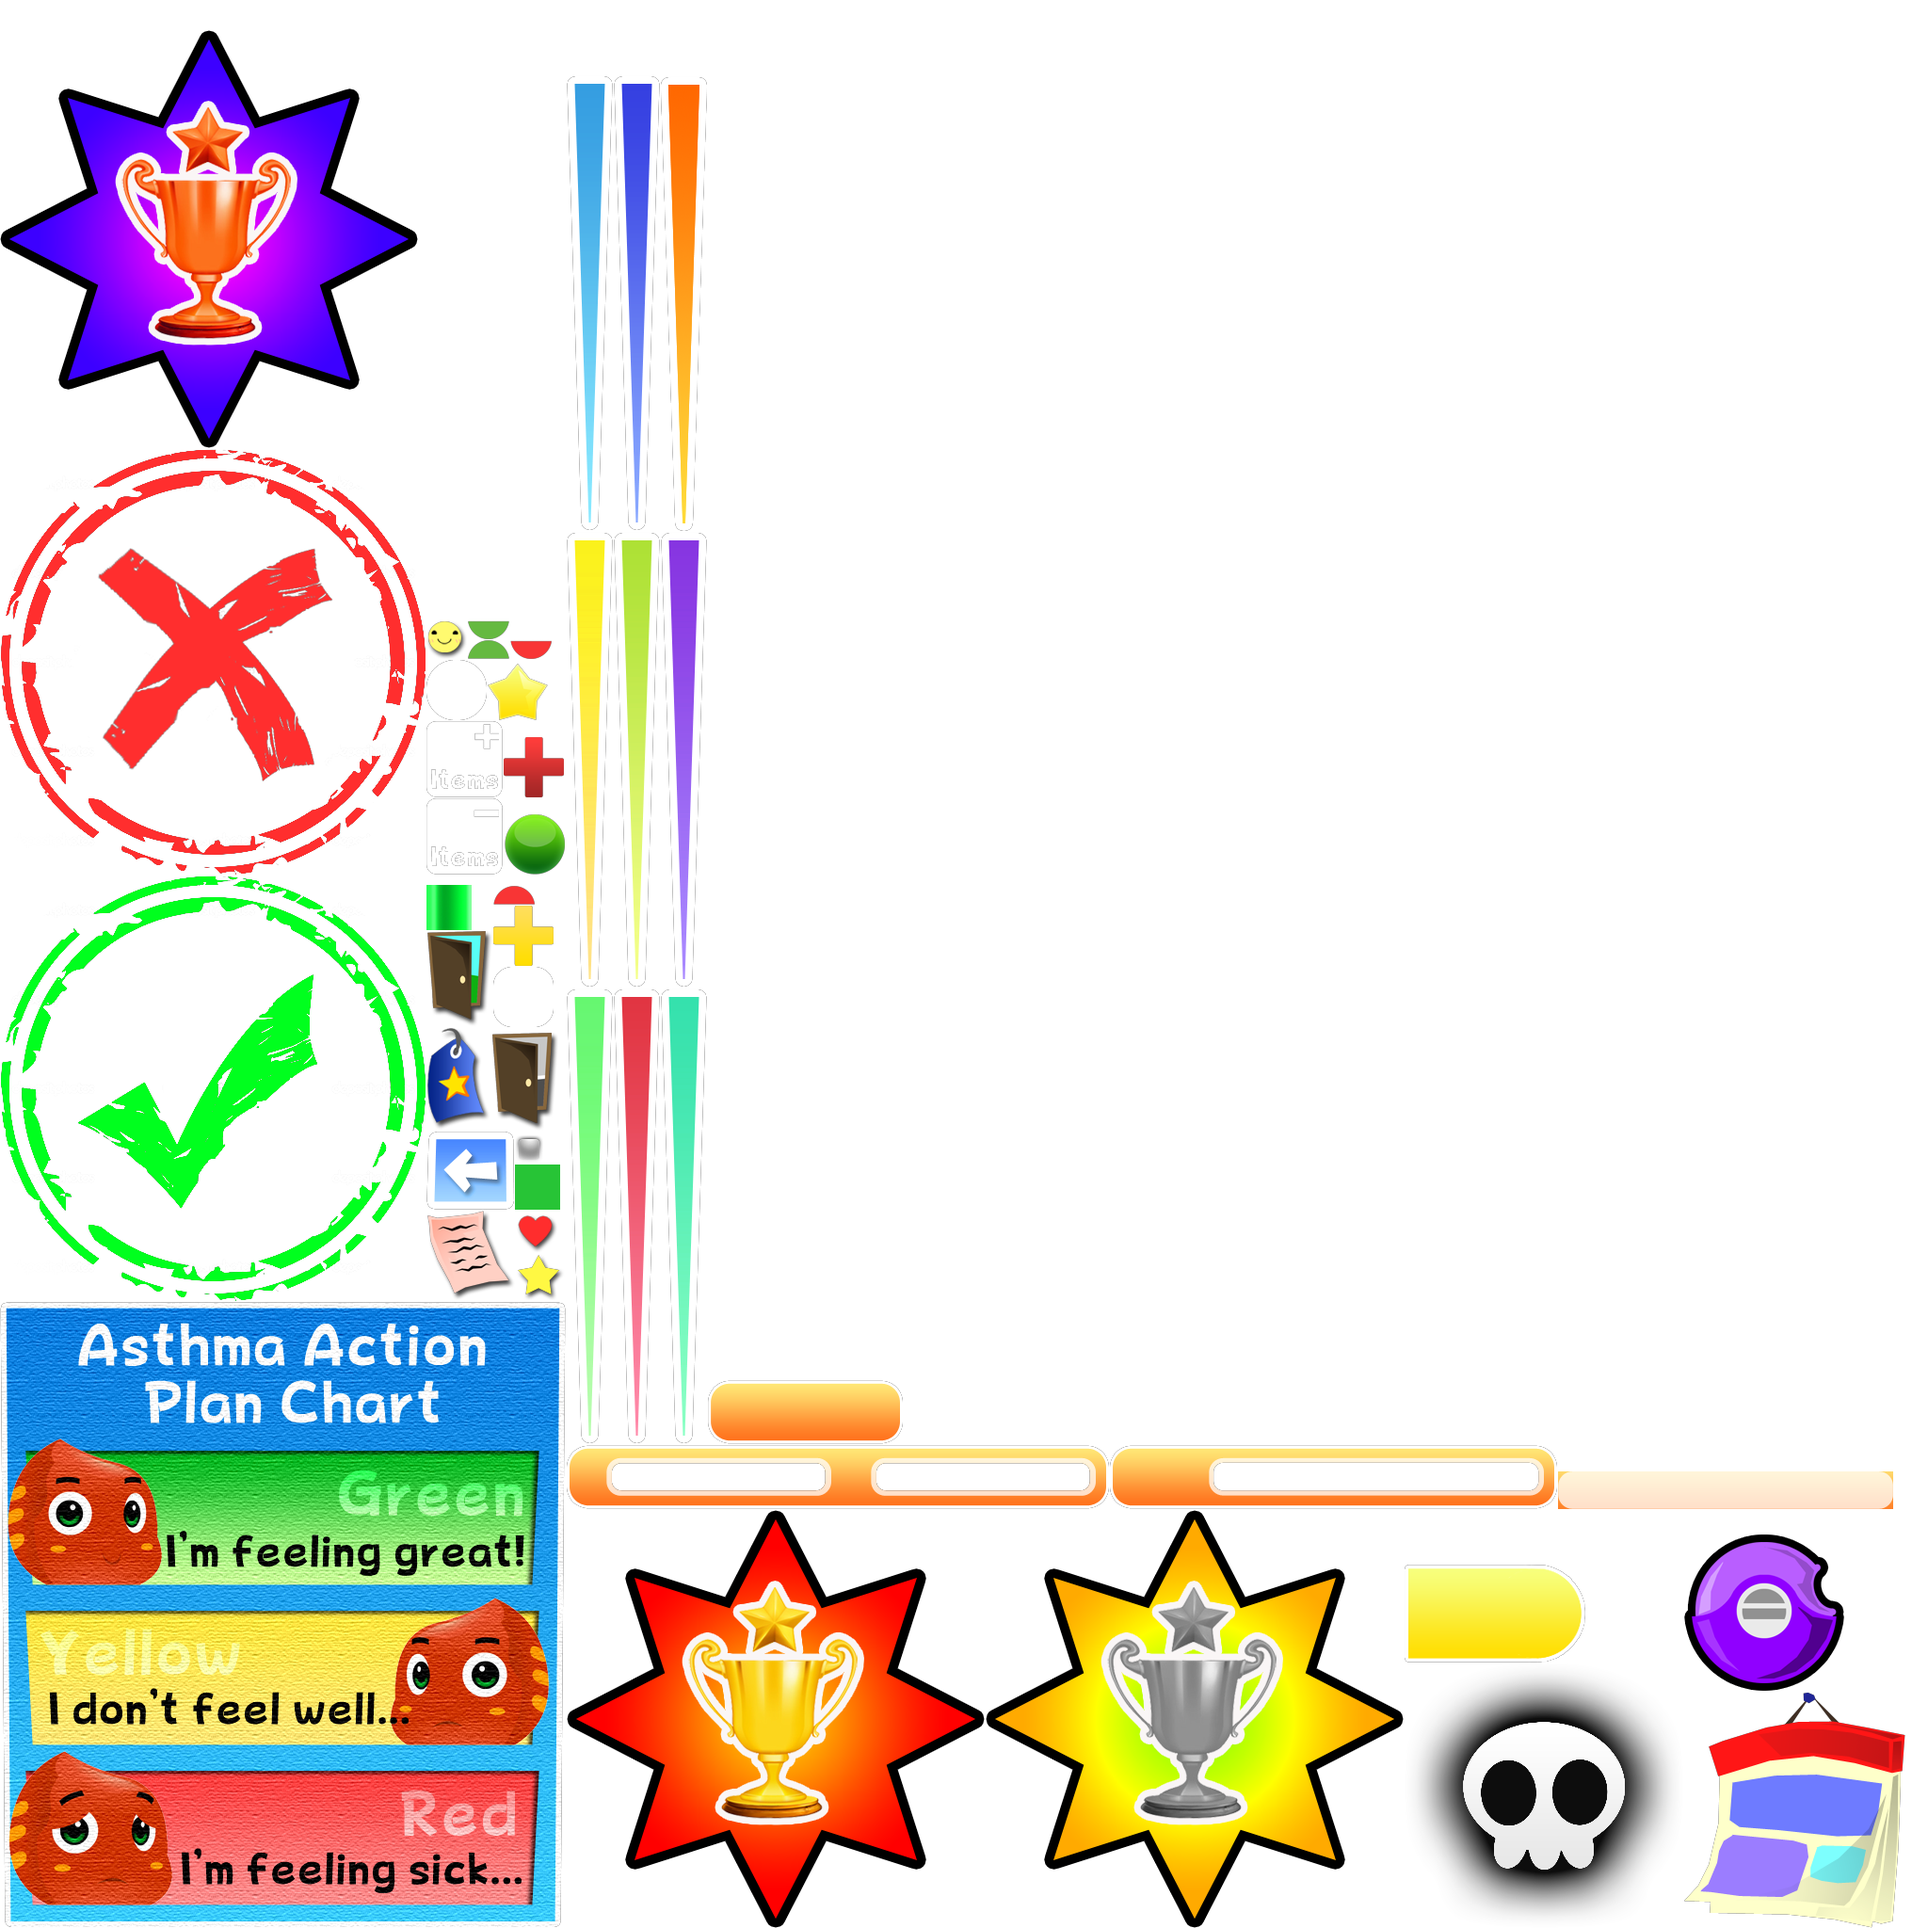
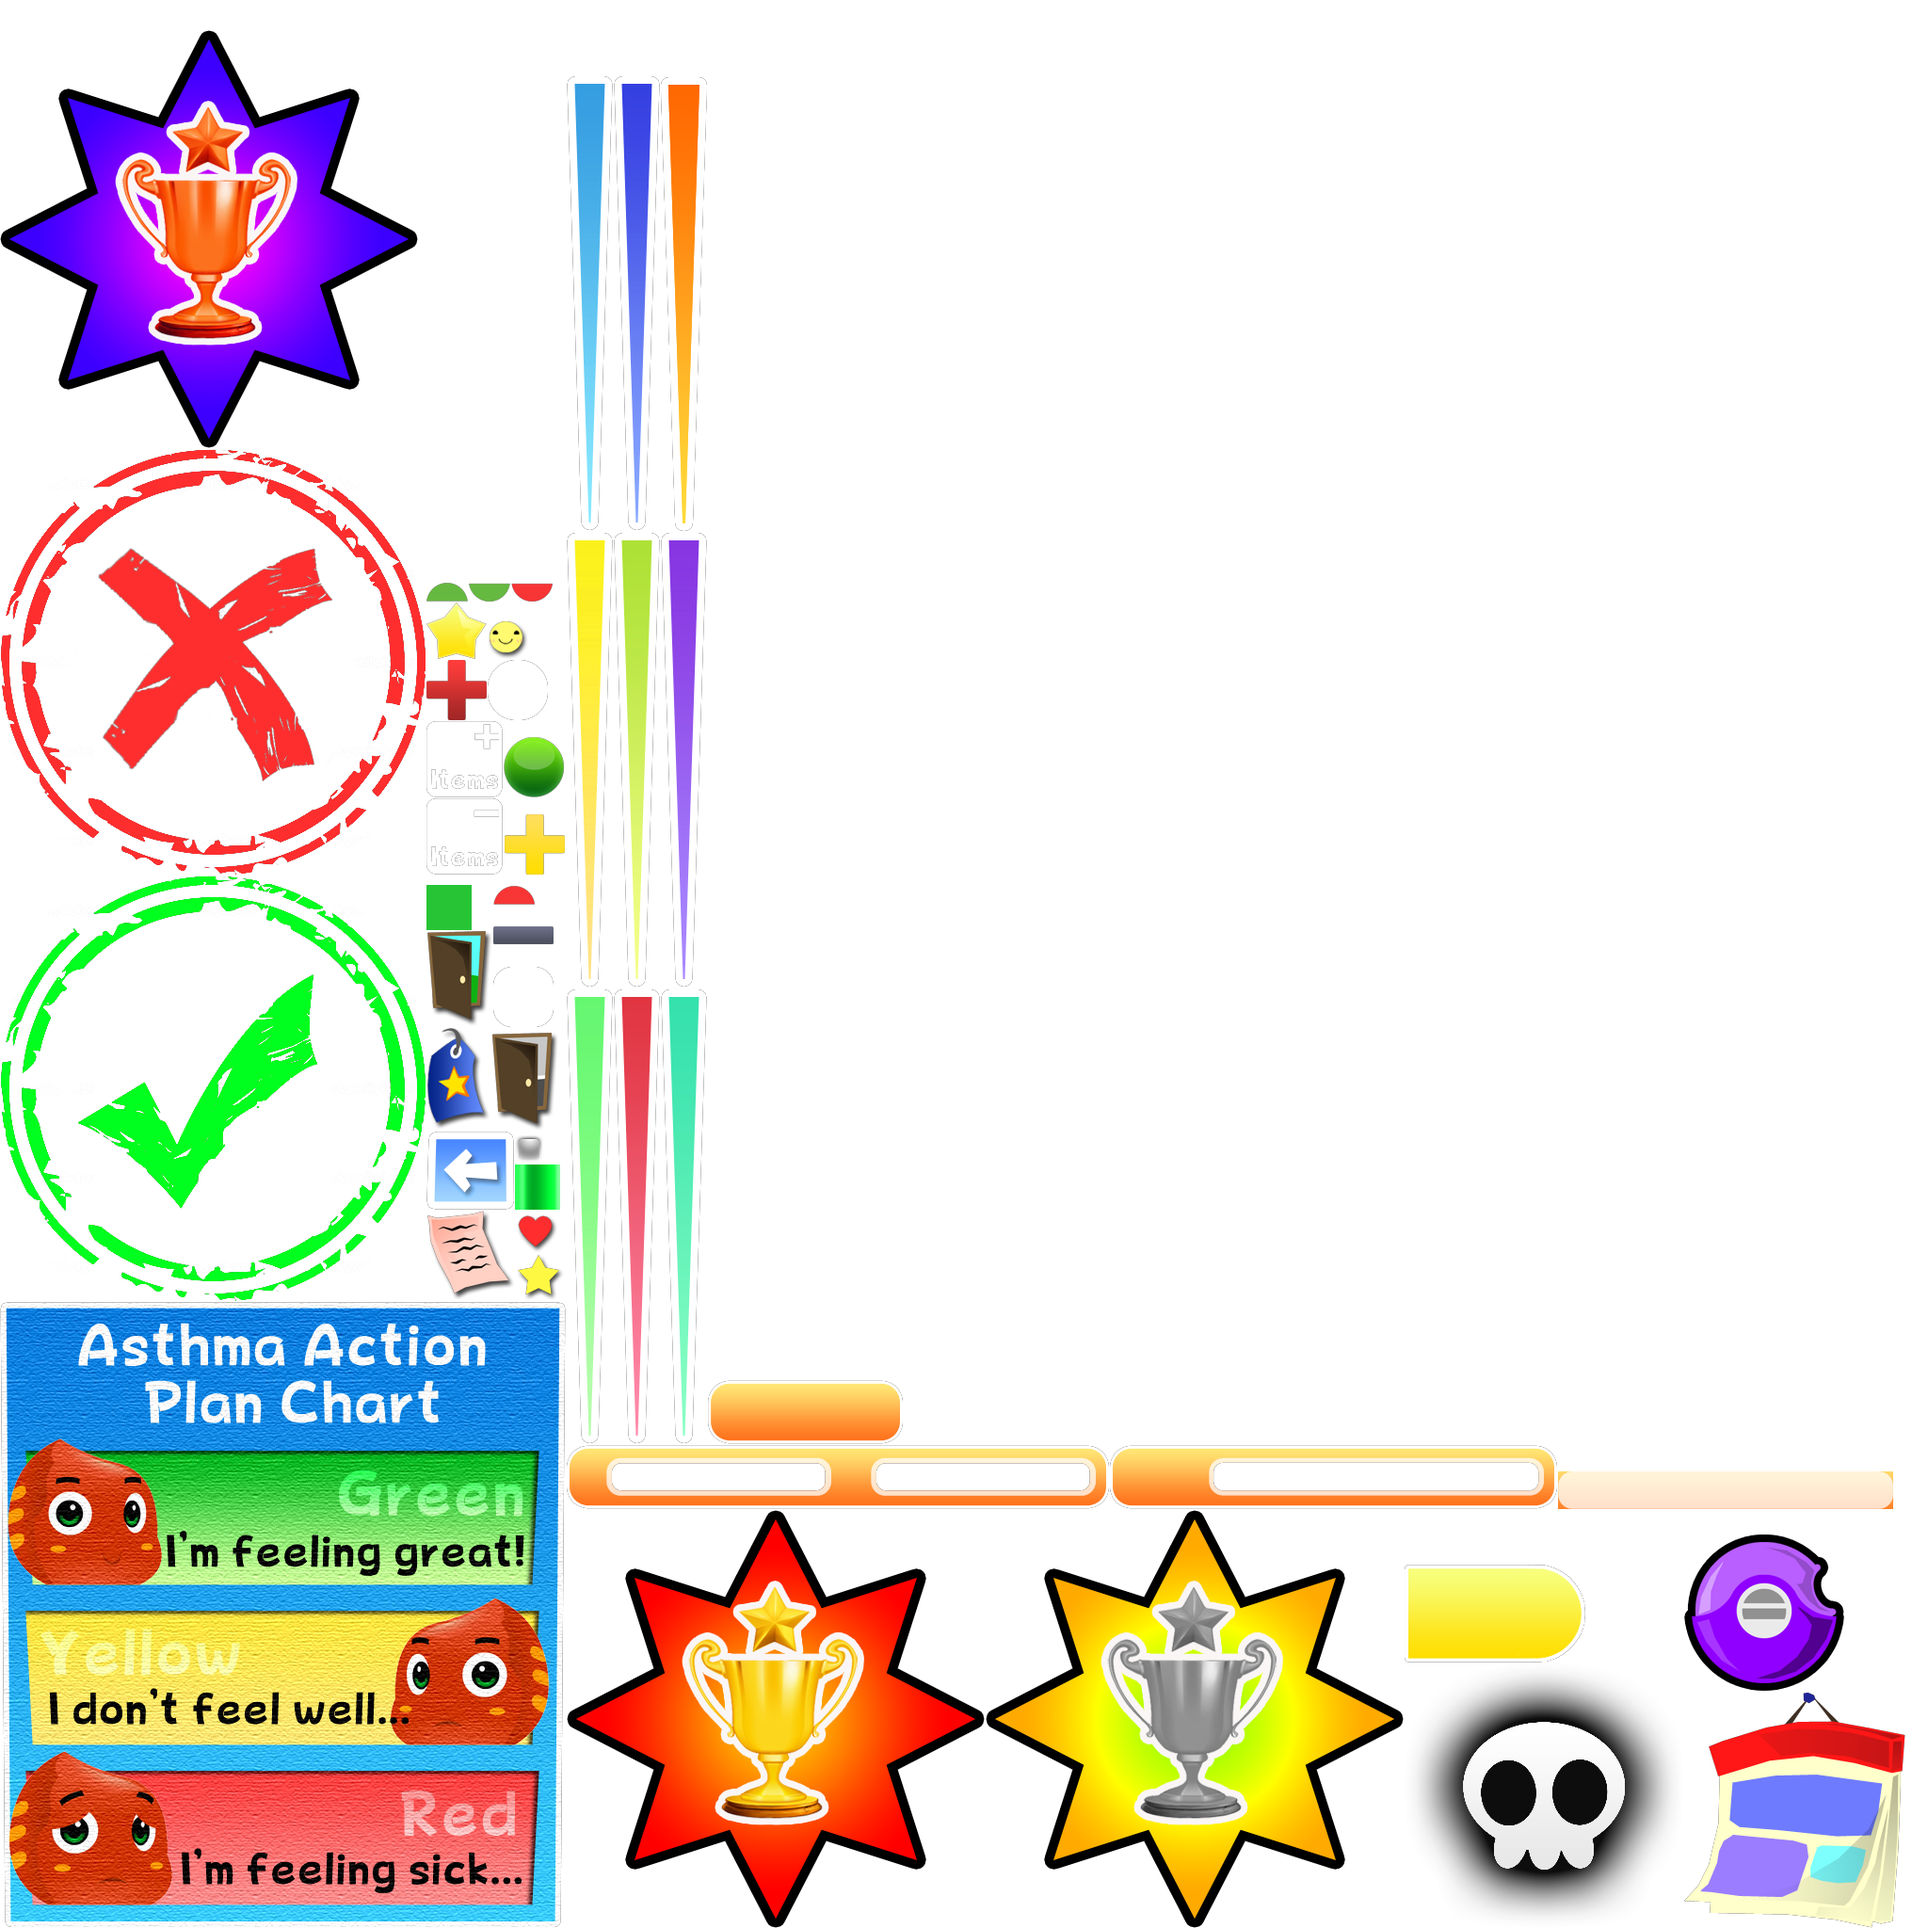
Default HUD animations, Minus animations done

Changed region(s): [[0.2188, 0.2812, 0.3125, 0.5], [0.25, 0.5938, 0.3125, 0.625]]

diff --git a/MyZooPets/Assets/Scripts/View/HUDAnimator.cs b/MyZooPets/Assets/Scripts/View/HUDAnimator.cs
@@ -261,13 +261,13 @@ public class HUDAnimator : MonoBehaviour {
 				StatsController.Instance.ChangeStats(0, Vector3.zero, 0, Vector3.zero, 0, Vector3.zero, 85, new Vector3(0, 0, 0));
 			}
 			if(GUI.Button(new Rect(100, 500, 100, 50), "KABOOYA")){
-				DataManager.SubtractMood(100);
-				dataMood = 0;
-				displayMood = 0;
-				DataManager.SubtractHealth(100);
-				dataHealth = 0;
-				displayHealth = 0;
-				StatsController.Instance.ChangeStats(200, Vector3.zero, 100, Vector3.zero, 73, Vector3.zero, 85, new Vector3(0, 0, 0));
+//				DataManager.SubtractMood(100);
+//				dataMood = 0;
+//				displayMood = 0;
+//				DataManager.SubtractHealth(100);
+//				dataHealth = 0;
+//				displayHealth = 0;
+				StatsController.Instance.ChangeStats(-100, Vector3.zero, -100, Vector3.zero, -20, Vector3.zero, -50, new Vector3(0, 0, 0));
 			}
 		}
 	}
@@ -327,40 +327,79 @@ public class HUDAnimator : MonoBehaviour {
 		String imageName = null;
 		Vector3 endPosition = Vector3.zero;
 		float modifier = 3f;	// How many to spawn for each change
+		bool isScaleUpDown = false;	// Used for adding animation
+		bool isFade = false;	// Used for subtracting animation
 
 		//Testing
 		duration = .7f;
 
 		switch(type){
-			case(HUDElementType.points):
-				imageName = "tweenPoints";
-				modifier = Math.Abs(1.3f / 200f * amount);
-				endPosition = new Vector3(130f, -25f, 0); //Points
-				break;
-			case(HUDElementType.stars):
-				imageName = "tweenStars";
-				modifier = Math.Abs(4f / 200f * amount);
-				endPosition = new Vector3(514f, -25f, 0);	//Stars
-				break;
-			case(HUDElementType.health):
+		case(HUDElementType.points):
+			modifier = Math.Abs(1.3f / 200f * amount);
+			imageName = "tweenPoints";
+			if(amount > 0){
+				endPosition = new Vector3(130f, -25f, 0);
+				isScaleUpDown = true;
+			}
+			else{
+				originPoint = new Vector3(130f, -25f, 0);
+				endPosition = new Vector3(130f, -100f, 0);
+				isFade = true;
+			}
+			break;
+
+		case(HUDElementType.stars):
+			modifier = Math.Abs(4f / 200f * amount);
+			imageName = "tweenStars";
+			if(amount > 0){
+				endPosition = new Vector3(514f, -25f, 0);
+				isScaleUpDown = true;
+			}
+			else{
+				originPoint = new Vector3(514f, -25f, 0);
+				endPosition = new Vector3(514f, -100f, 0);
+				isFade = true;
+			}
+			break;
+
+		case(HUDElementType.health):
+			modifier = Math.Abs(1.6f / 80f * amount);
+			if(amount > 0){
 				imageName = "tweenHealthUp";
-				modifier = Math.Abs(1.6f / 80f * amount);
-				endPosition = new Vector3(730f, -23f, 0);	//Health
-				break;
-			case(HUDElementType.mood):
+				endPosition = new Vector3(730f, -25f, 0);
+				isScaleUpDown = true;
+			}
+			else{
+				imageName = "tweenMinus";
+				originPoint = new Vector3(730f, -25f, 0);
+				endPosition = new Vector3(730f, -100f, 0);
+				isFade = true;
+			}
+			break;
+
+		case(HUDElementType.mood):
+			modifier = Math.Abs(1.6f / 80f * amount);
+			if(amount > 0){
 				imageName = "tweenMoodUp";
-				modifier = Math.Abs(1.6f / 80f * amount);
-				endPosition = new Vector3(1010f, -23f, 0); //Mood
-				break;
+				endPosition = new Vector3(1010f, -25f, 0);
+				isScaleUpDown = true;
+			}
+			else{
+				imageName = "tweenMinus";
+				originPoint = new Vector3(1010f, -25f, 0);
+				endPosition = new Vector3(1010f, -100f, 0);
+				isFade = true;
+			}
+			break;
 		}
 
 		for(float i = 0f; i < modifier; i += 0.1f){
 			// On its own thread, asynchronous
-			StartCoroutine(SpawnOneSprite(i, type, imageName, originPoint, endPosition, duration));
+			StartCoroutine(SpawnOneSprite(i, type, imageName, originPoint, endPosition, duration, isScaleUpDown, isFade));
 		}
 	}
 
-	IEnumerator SpawnOneSprite(float waitTime, HUDElementType type, string imageName, Vector3 fromPos, Vector3 toPos, float duration){
+	IEnumerator SpawnOneSprite(float waitTime, HUDElementType type, string imageName, Vector3 fromPos, Vector3 toPos, float duration, bool isScaleUpDown, bool isFade){
 		yield return new WaitForSeconds(waitTime);
 
 		// Create the tween image
@@ -370,10 +409,17 @@ public class HUDAnimator : MonoBehaviour {
 		go.transform.localPosition = fromPos;
 		go.transform.localScale = new Vector3(33f, 33f, 1f);
 		go.AddComponent<DestroyOnCall>();
-		ScaleTweenUpDown scaleScript = go.AddComponent<ScaleTweenUpDown>();
-		scaleScript.scaleDelta = new Vector3(4f, 4f, 1f);
-		scaleScript.duration = .7f;
-
+		if(isScaleUpDown){
+			ScaleTweenUpDown scaleScript = go.AddComponent<ScaleTweenUpDown>();
+			scaleScript.scaleDelta = new Vector3(4f, 4f, 1f);
+			scaleScript.duration = 0.7f;
+		}
+		if(isFade){
+			NGUIAlphaTween alphaScript = go.AddComponent<NGUIAlphaTween>();
+			alphaScript.startAlpha = 1f;
+			alphaScript.endAlpha = 0f;
+			alphaScript.duration = 0.7f;
+		}
 		Hashtable optional = new Hashtable();
 		optional.Add("ease", LeanTweenType.easeInOutQuad);
 		optional.Add("onCompleteTarget", go);

diff --git a/MyZooPets/Assets/Scripts/View/GuiHelpers/NGUIAlphaTween.cs b/MyZooPets/Assets/Scripts/View/GuiHelpers/NGUIAlphaTween.cs
@@ -1,0 +1,51 @@
+using UnityEngine;
+using System.Collections;
+
+public class NGUIAlphaTween : MonoBehaviour {
+
+	private float currentAlpha;
+	public float startAlpha = 1.0f;	// range [0-1]
+	public float endAlpha = 0.0f;
+	public float delay = 0;
+	public float duration = 2f;
+
+	private UIWidget widget;
+
+	// Use this for initialization
+	void Start () {
+		widget = gameObject.GetComponent<UISprite>();
+
+		if(startAlpha > 1f){
+			startAlpha = 1f;
+		}
+		else if(startAlpha < 0){
+			startAlpha = 0f;
+		}
+		widget.alpha = startAlpha;
+
+		if(endAlpha > 1f){
+			endAlpha = 1f;
+		}
+		else if(endAlpha < 0){
+			endAlpha = 0f;
+		}
+
+		currentAlpha = startAlpha;
+
+		StartAlphaTween();
+	}
+
+	void FixedUpdate(){
+		widget.alpha = currentAlpha;
+	}
+
+	// LeanTween to update its own value
+	public void StartAlphaTween(){
+		Hashtable optional = new Hashtable();
+		LeanTween.value(gameObject, "UpdateFloat", startAlpha, endAlpha, duration, optional);
+	}
+
+	public void UpdateFloat(float val){
+		currentAlpha = val;
+	}
+}

diff --git a/MyZooPets/Assets/Scripts/Controller/DegradationLogic.cs b/MyZooPets/Assets/Scripts/Controller/DegradationLogic.cs
@@ -101,7 +101,7 @@ public class DegradationLogic : MonoBehaviour {
         }else{
             Debug.LogError("Trigger Destroyed listener is null");
         }
-		StatsController.Instance.ChangeStats(250, UIUtility.Instance.mCameraWorld2Screen(triggerPos), 50, UIUtility.Instance.mCameraWorld2Screen(triggerPos), 0, Vector3.zero, 0, Vector3.zero);
+		StatsController.Instance.ChangeStats(250, UIUtility.Instance.mainCameraWorld2Screen(triggerPos), 50, UIUtility.Instance.mainCameraWorld2Screen(triggerPos), 0, Vector3.zero, 0, Vector3.zero);
         DataManager.DegradationTriggers.Remove(degradData);
     }
 

diff --git a/MyZooPets/Assets/Scripts/View/GuiHelpers/UIUtility.cs b/MyZooPets/Assets/Scripts/View/GuiHelpers/UIUtility.cs
@@ -13,8 +13,11 @@ public class UIUtility : Singleton<UIUtility> {
 		nguiCamera = nguiCameraObject.GetComponent<Camera>();
 	}
 
-	public Vector3 mCameraWorld2Screen(Vector3 worldPos){
-		Debug.Log("Logging! ---- " + worldPos + " ---> " + mainCamera.WorldToScreenPoint(worldPos));
+	public Vector3 mainCameraWorld2Screen(Vector3 worldPos){
 		return mainCamera.WorldToScreenPoint(worldPos);
+	}
+
+	public Vector3 nguiCameraWorld2Screen(Vector3 guiPos){
+		return nguiCamera.WorldToScreenPoint(guiPos);
 	}
 }
